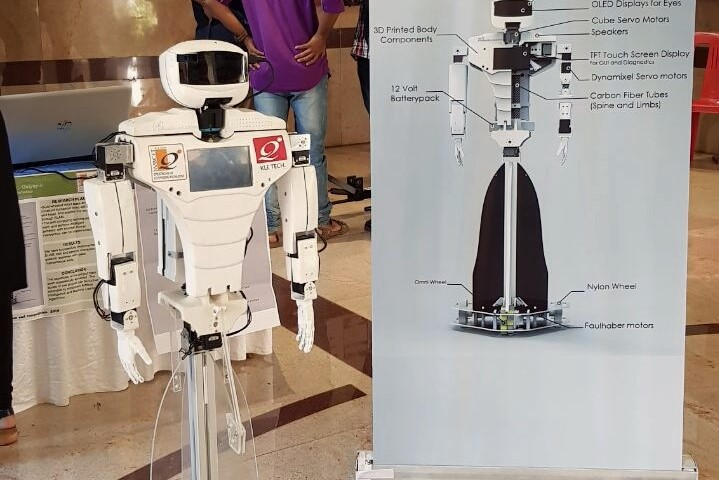
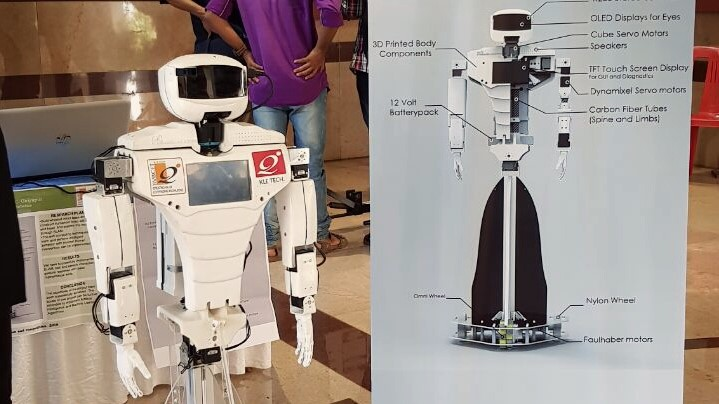
landt image resize 1

diff --git a/project humanoid.html b/project humanoid.html
@@ -36,6 +36,12 @@ img {
   display: block;
   margin-left: auto;
   margin-right: auto;
+
+  width:550px;
+  height:550px;
+
+/*Scale down will take the necessary specified space that is 100px x 100px without stretching the image*/
+ object-fit:scale-down;
 }
 </style>
 
@@ -192,14 +198,14 @@ img {vertical-align: middle;}
               <div class="mySlides fade">
                 <div class="numbertext">2 / 3</div>
                 <!-- <img src="img_snow_wide.jpg" style="width:100%"> -->
-                <img src="img/project/humanoid-robot/humanoid-robot1.jpg" class="img-fluid" alt="">
+                <img src="img/project/humanoid-robot/humanoid-robot2.png" class="img-fluid" alt="">
                 <div class="text">Caption Two</div>
               </div>
 
               <div class="mySlides fade">
                 <div class="numbertext">3 / 3</div>
                 <!-- <img src="img_mountains_wide.jpg" style="width:100%"> -->
-                <img src="img/project/humanoid-robot/humanoid-robot1.jpg" class="img-fluid" alt="">
+                <img src="img/project/humanoid-robot/humanoid-robot3.jpg" class="img-fluid" alt="">
                 <div class="text">Caption Three</div>
               </div>
 

diff --git a/project single axis.html b/project single axis.html
@@ -36,6 +36,12 @@ img {
   display: block;
   margin-left: auto;
   margin-right: auto;
+
+  width:550px;
+  height:550px;
+
+/*Scale down will take the necessary specified space that is 100px x 100px without stretching the image*/
+ object-fit:scale-down;
 }
 </style>
 
@@ -220,7 +226,9 @@ img {vertical-align: middle;}
               <p>• The complete system was designed and fabricated in house<br>
                   • The mechanical system consisted of linear slider unit, timer belt and pulley system and a rigid frame to hold the complete system<br>
                   • Maxon motor EC-max 30 was used for the motion<br>
-                  • Using PID control logic the position and the speed of the linear slider was controlled with good accuracy</p>
+                  • Using PID control logic the position and the speed of the linear slider was controlled with good accuracy<br>
+                  • Team members: Prasanna, Vaibhav, swapnil, Mahendra, prashanth
+                </p>
 
                   <p><br></p>
                   <p>Working video : <a href="#" target="_blank">youtube video</a></p>

diff --git a/project spectrometer.html b/project spectrometer.html
@@ -36,6 +36,12 @@ img {
   display: block;
   margin-left: auto;
   margin-right: auto;
+
+  width:550px;
+  height:550px;
+
+/*Scale down will take the necessary specified space that is 100px x 100px without stretching the image*/
+ object-fit:scale-down;
 }
 </style>
 
@@ -220,7 +226,9 @@ img {vertical-align: middle;}
               <p>•A system was designed and fabricated to produce a spectrum of different patterns for different material,
                   when a light source of those material is been sent through the system<br>
                   •The spectrum pattern for Sodium and Mercury metal were been produced, captured and analized<br>
-                  •Approx amount of sodium and mercury (quantity) present in the respective light source was calculated.</p>
+                  •Approx amount of sodium and mercury (quantity) present in the respective light source was calculated<br>
+                  • Team members: Fahad, Hassan, Mahendra
+                </p>
                   <p><br></p>
                   <p>Working video : <a href="#" target="_blank">youtube video</a></p>
 

diff --git a/project steadicam.html b/project steadicam.html
@@ -36,6 +36,12 @@ img {
   display: block;
   margin-left: auto;
   margin-right: auto;
+
+  width:550px;
+  height:550px;
+
+/*Scale down will take the necessary specified space that is 100px x 100px without stretching the image*/
+ object-fit:scale-down;
 }
 </style>
 
@@ -221,7 +227,9 @@ img {vertical-align: middle;}
                 • It is a complete mechanical system with a mechanical gyroscope built in which makes the camera
                  free from all the jerks(vibrations) encountered while taking the videos<br>
                 • Operator wears a harness (the Steadicam "vest") which is attached to an iso-elastic arm<br>
-                • This is connected by a multiaxis and low friction gimbal to the Steadicam armature </p>
+                • This is connected by a multiaxis and low friction gimbal to the Steadicam armature<br>
+                  • Team members: Prasanna, Prashanth, Mahendra
+               </p>
                   <p><br></p>
                   <p>Working video : <a href="#" target="_blank">youtube video</a></p>
 

diff --git a/project scara.html b/project scara.html
@@ -36,6 +36,12 @@ img {
   display: block;
   margin-left: auto;
   margin-right: auto;
+
+  width:550px;
+  height:550px;
+
+/*Scale down will take the necessary specified space that is 100px x 100px without stretching the image*/
+ object-fit:scale-down;
 }
 </style>
 
@@ -221,7 +227,9 @@ img {vertical-align: middle;}
                   • Stepper motor with the timer pulleys were used for the link motion<br>
                   • Web based UI was created to control the robotic arm<br>
                   • Linear and circular interpolation were produced using the Inverse kinematic equation which were derived<br>
-                  • Application like pick and place with good repeatability was tested</p>
+                  • Application like pick and place with good repeatability was tested<br>
+                  • Team members: Prasanna, Vaibhav, swapnil, Mahendra, Ashish
+                </p>
                   <p><br></p>
                   <p>Working video : <a href="#" target="_blank">youtube video</a></p>
 

diff --git a/project terranaut.html b/project terranaut.html
@@ -36,6 +36,12 @@ img {
   display: block;
   margin-left: auto;
   margin-right: auto;
+
+  width:550px;
+  height:550px;
+
+/*Scale down will take the necessary specified space that is 100px x 100px without stretching the image*/
+ object-fit:scale-down;
 }
 </style>
 
@@ -219,7 +225,9 @@ img {vertical-align: middle;}
               <p><br></p>
               <p> • Four wheeled differential robot was operated using wireless through Bluetooth<br>
                   • PS3 play station joystick was used to control the robot<br>
-                  • Two DOF linear gripping system was attached in front of the robot such that it could do simple task like pick and place </p>
+                  • Two DOF linear gripping system was attached in front of the robot such that it could do simple task like pick and place <br>
+                  • Team members: Prasanna, Mahendra
+                </p>
                   <p><br></p>
                   <p>Working video : <a href="#" target="_blank">youtube video</a></p>
 

diff --git a/project autonomous.html b/project autonomous.html
@@ -36,6 +36,12 @@ img {
   display: block;
   margin-left: auto;
   margin-right: auto;
+
+  width:550px;
+  height:550px;
+
+/*Scale down will take the necessary specified space that is 100px x 100px without stretching the image*/
+ object-fit:scale-down;
 }
 </style>
 
@@ -220,7 +226,8 @@ img {vertical-align: middle;}
               <p> • There will be four placard with name "GO" "LEFT" "RIGHT" "STOP"<br>
                   • Once any random placard is shown infornt of the camera, it image processes and give to machine learning code<br>
                   • Image classification using the supervised learning is done and the respective commands are sent to the basechassis<br>
-                  • further the robot moves accordingly with respect to the shown placard
+                  • further the robot moves accordingly with respect to the shown placard<br>
+                  • Team members: Kartik L, Prasanna, Abhishiek, Mahendra
                 </p>
 
                   <p><br></p>

diff --git a/project jimmy jib.html b/project jimmy jib.html
@@ -36,6 +36,12 @@ img {
   display: block;
   margin-left: auto;
   margin-right: auto;
+
+  width:550px;
+  height:550px;
+
+/*Scale down will take the necessary specified space that is 100px x 100px without stretching the image*/
+ object-fit:scale-down;
 }
 </style>
 
@@ -220,7 +226,9 @@ img {vertical-align: middle;}
               <p>• The product was developed and sold successfully to our customer (BVB media).<br>
                 • It basically have a boom with a camera on one end and a counterweight, camera controls on the other end.<br>
                 • It also has a video display unit placed along the handle, wherein the operator could see the video produced by the camera while
-                operating.</p>
+                operating.<br>
+                • Team members: Prasanna, Ankush, Krishna, Mahendra
+              </p>
                   <p><br></p>
                   <p>working video : <a href="#" target="_blank">youtube video</a></p>
 

diff --git a/project plastic recycle.html b/project plastic recycle.html
@@ -36,6 +36,12 @@ img {
   display: block;
   margin-left: auto;
   margin-right: auto;
+
+  width:550px;
+  height:550px;
+
+/*Scale down will take the necessary specified space that is 100px x 100px without stretching the image*/
+ object-fit:scale-down;
 }
 </style>
 
@@ -219,7 +225,9 @@ img {vertical-align: middle;}
               <p><br></p>
               <p>• Plastic recycling machine was designed and fabricated in-house<br>
                  • The waste plastic was the input to the machine<br>
-                 • The output plastic(thread) could be used to feed the 3D printer machine</p>
+                 • The output plastic(thread) could be used to feed the 3D printer machine<br>
+                 • Team members: vaishak, Pradeep, Deepa, Mahendra, chetan
+               </p>
                   <p><br></p>
                   <p>working video : <a href="#" target="_blank">youtube video</a></p>
                   <p><br></p>

diff --git a/project bmi.html b/project bmi.html
@@ -36,6 +36,12 @@ img {
   display: block;
   margin-left: auto;
   margin-right: auto;
+
+  width:550px;
+  height:550px;
+
+/*Scale down will take the necessary specified space that is 100px x 100px without stretching the image*/
+ object-fit:scale-down;
 }
 </style>
 
@@ -219,7 +225,10 @@ img {vertical-align: middle;}
               <p><br></p>
               <p>• The device measures the weight and height of the person.<br>
                   • Calculates BMI value, water intake, and fat percentage etc<br>
-                  • Screen touch display was available to view the output results </p>
+                  • Screen touch display was available to view the output results<br>
+                  • Team members: Ashish, Kavya, Divyashree, Anjali, Shubha, Mahendra
+                 </p>
+
 
                   <p><br></p>
                   <p>Working video : <a href="#" target="_blank">youtube video</a></p>

diff --git a/project throwing.html b/project throwing.html
@@ -36,6 +36,12 @@ img {
   display: block;
   margin-left: auto;
   margin-right: auto;
+
+  width:550px;
+  height:550px;
+
+/*Scale down will take the necessary specified space that is 100px x 100px without stretching the image*/
+ object-fit:scale-down;
 }
 </style>
 
@@ -186,7 +192,9 @@ img {vertical-align: middle;}
                 <div class="numbertext">1 / 3</div>
                 <!-- <img src="img_nature_wide.jpg" style="width:100%"> -->
                 <img src="img/project/throwing-robot/throwing-robot1.JPG" class="img-fluid" alt="">
+
                 <div class="text">Caption Text</div>
+
               </div>
 
               <div class="mySlides fade">

diff --git a/project rl.html b/project rl.html
@@ -36,6 +36,12 @@ img {
   display: block;
   margin-left: auto;
   margin-right: auto;
+
+  width:550px;
+  height:550px;
+
+/*Scale down will take the necessary specified space that is 100px x 100px without stretching the image*/
+ object-fit:scale-down;
 }
 </style>
 
